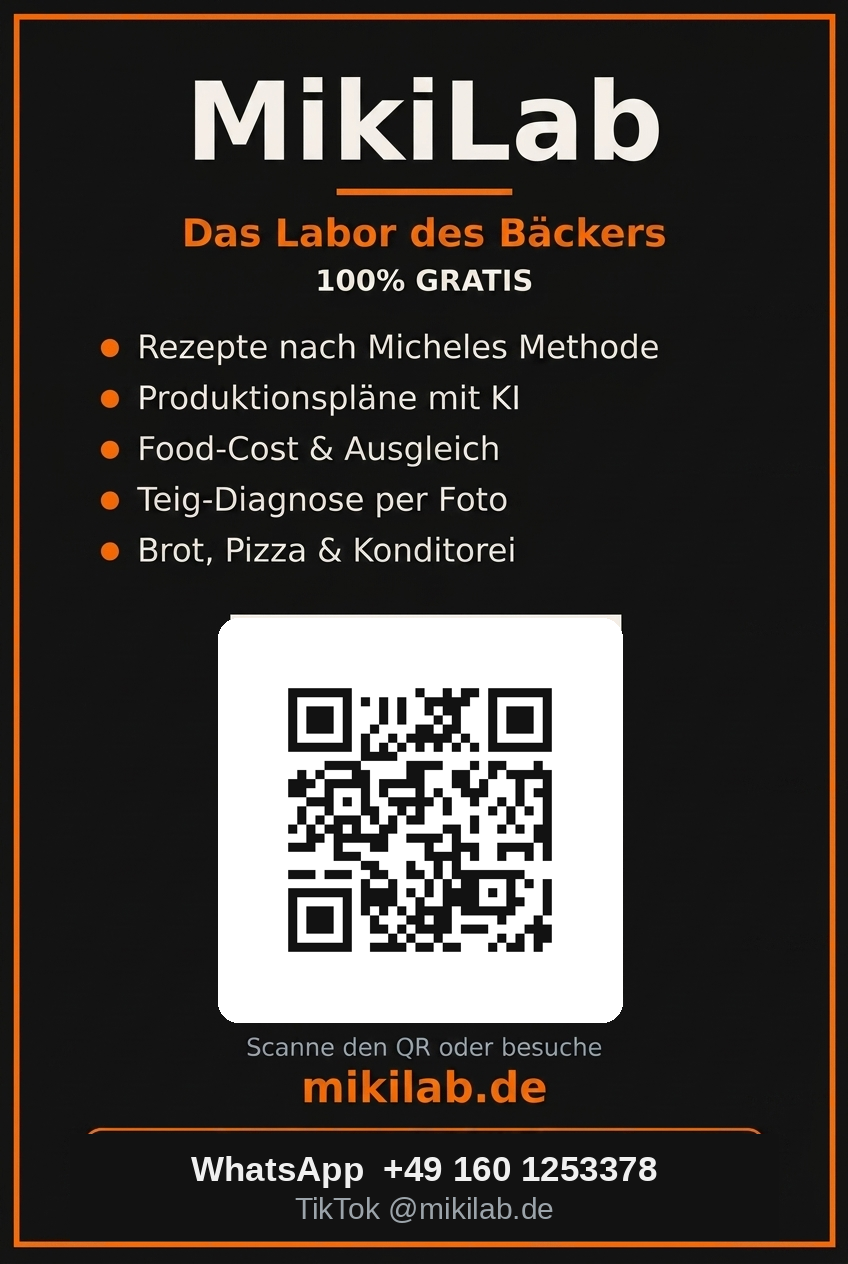
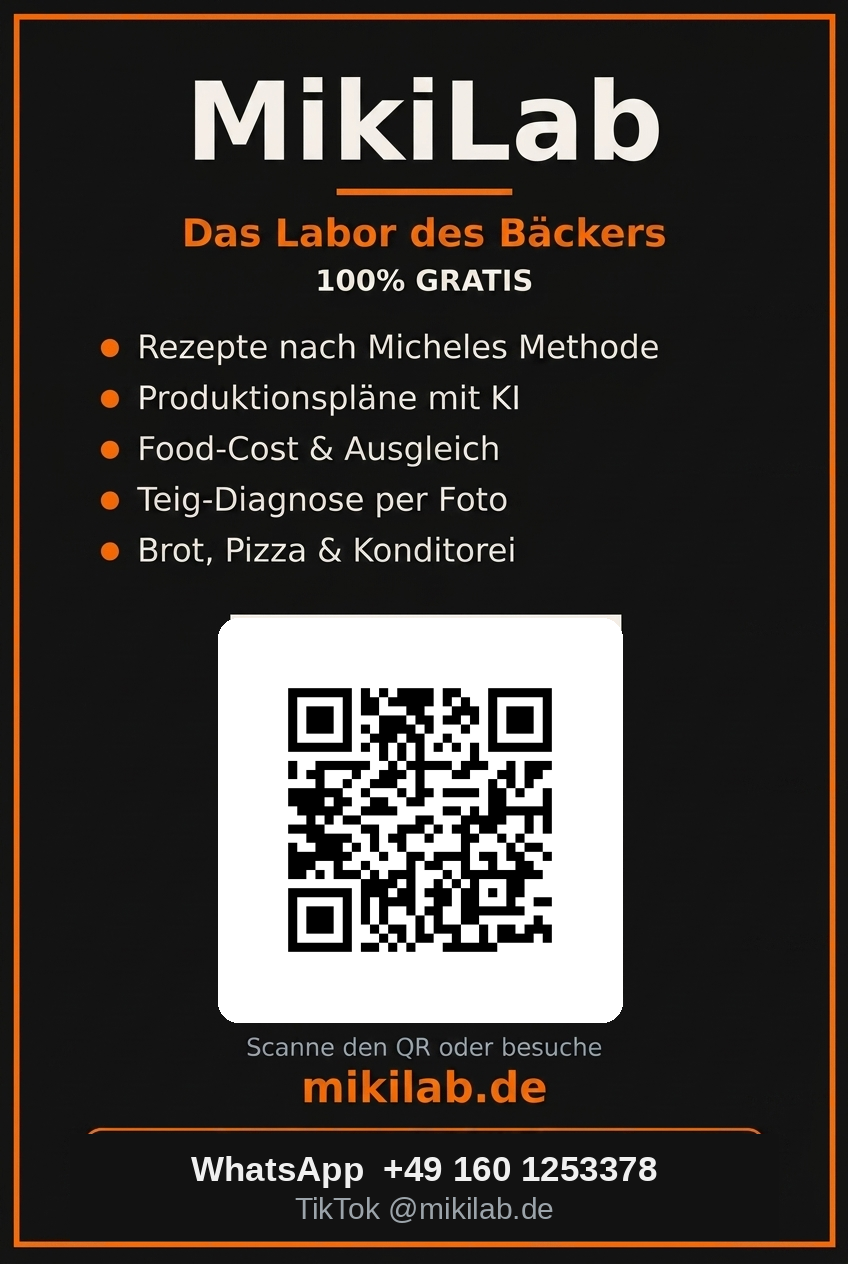
## Fatto — QR tracciato + locandina personalizzata + Pubblica su TikTok + CSV social + menu lampeggiante
Testato al 100% (backend + frontend, iteration_148):
- **QR tracciato**: il QR ora porta a `mikilab.de/?ref=flyer` (rigenerato e re-inserito in tutte e 5 le locandine, resta scansionabile). Quando qualcuno arriva dal QR, l'app lo conta → nel pannello Admin vedi "flyer" tra i click, distinto da TikTok.
- **Locandina personalizzata**: campo "Nome del tuo forno" → il nome appare sopra il QR in tempo reale (generato al volo); ogni panetteria ha la sua, pronta da scaricare/condividere/stampare.
- **Pubblica su TikTok**: pulsante che scarica la locandina e apre direttamente la pagina di caricamento di TikTok.
- **Export CSV click social**: pulsante CSV nella card statistiche Admin (come per le email).
- **Menu hamburger lampeggiante**: le tre lineette ora hanno un glow arancione pulsante, visibile in ogni sezione, così si nota subito che c'è il menu.

Stato finale pulito: TikTok @mikilab.de, IG/FB nascosti, contatore click azzerato, 5 locandine + QR OK.

### Next Action Items
- **Nome Forno nel QR**: Fai sì che, personalizzando la locandina, anche il QR includa il nome del forno come parametro tracciabile
- **Colore Glow Regolabile**: Aggiungi in Admin un interruttore per attivare/disattivare il lampeggio del menu
- **Locandina Orizzontale**: Genera anche una versione orizzontale della locandina per social e vetrine larghe
- **Report Visite Dettagliato**: Mostra nel pannello Admin da quali sorgenti (flyer, TikTok) arrivano i nuovi iscritti nel tempo
[…]

Changed region(s): [[0.3373, 0.5245, 0.6745, 0.7714]]

diff --git a/frontend/src/components/PromuoviMikiLab.jsx b/frontend/src/components/PromuoviMikiLab.jsx
@@ -145,10 +145,38 @@ export default function PromuoviMikiLab() {
   const caps = CAPTIONS[lang] || CAPTIONS.en;
   const caption = caps[variant];
   const activeSocials = SOCIALS.filter((s) => s.key !== "tiktok" && socialUrls[s.key]);
+  const [bakeryName, setBakeryName] = useState("");
+  const [personalUrl, setPersonalUrl] = useState(null);
+  useEffect(() => {
+    const name = bakeryName.trim();
+    if (!name) { setPersonalUrl(null); return; }
+    let cancelled = false;
+    const img = new Image();
+    img.crossOrigin = "anonymous";
+    img.onload = () => {
+      if (cancelled) return;
+      const c = document.createElement("canvas");
+      c.width = img.naturalWidth; c.height = img.naturalHeight;
+      const ctx = c.getContext("2d");
+      ctx.drawImage(img, 0, 0);
+      const W = c.width, H = c.height;
+      const txt = (name.length > 26 ? name.slice(0, 26) : name);
+      const fs = Math.round(H * 0.034);
+      ctx.font = `800 ${fs}px Manrope, Arial, sans-serif`;
+      ctx.textAlign = "center"; ctx.textBaseline = "middle";
+      const y = Math.round(H * 0.463);
+      ctx.lineWidth = Math.max(4, fs * 0.18); ctx.strokeStyle = "#121212"; ctx.strokeText(txt, W / 2, y);
+      ctx.fillStyle = "#ff6b00"; ctx.fillText(txt, W / 2, y);
+      try { setPersonalUrl(c.toDataURL("image/png")); } catch { setPersonalUrl(null); }
+    };
+    img.onerror = () => setPersonalUrl(null);
+    img.src = `${process.env.PUBLIC_URL || ""}/${flyerFile}`;
+    return () => { cancelled = true; };
+  }, [bakeryName, flyerFile]);
+  const displayFlyer = personalUrl || `${process.env.PUBLIC_URL}/${flyerFile}`;
   const shareFlyer = async () => {
-    const fileUrl = `${window.location.origin}${process.env.PUBLIC_URL || ""}/${flyerFile}`;
     try {
-      const res = await fetch(fileUrl);
+      const res = await fetch(displayFlyer);
       const blob = await res.blob();
       const file = new File([blob], flyerFile, { type: blob.type || "image/png" });
       if (navigator.canShare && navigator.canShare({ files: [file] })) {
@@ -160,6 +188,12 @@ export default function PromuoviMikiLab() {
       try { await navigator.share({ title: "MikiLab", text: L("La locandina di MikiLab", "Der MikiLab-Flyer", "The MikiLab flyer", "El folleto de MikiLab", "Le flyer MikiLab", "پوستر MikiLab"), url: SITE_URL }); return; } catch { /* */ }
     }
     window.open(`https://wa.me/?text=${encodeURIComponent(`MikiLab — ${SITE_URL}`)}`, "_blank");
+  };
+  const publishTikTok = () => {
+    const a = document.createElement("a"); a.href = displayFlyer; a.download = flyerFile; a.click();
+    communityApi.socialClick("tiktok");
+    window.open("https://www.tiktok.com/upload", "_blank");
+    toast.success(L("Locandina scaricata: ora caricala su TikTok!", "Flyer geladen: jetzt auf TikTok hochladen!", "Flyer downloaded: now upload it on TikTok!", "Folleto descargado: ¡súbelo ahora a TikTok!", "Flyer téléchargé : télécharge-le sur TikTok !", "پوستر دانلود شد: حالا در تیکتاک بارگذاری کن!"));
   };
   const VARIANTS = [
     { id: "bacheca", label: L("Post", "Beitrag", "Post", "Post", "Post", "پست") },
@@ -315,21 +349,29 @@ export default function PromuoviMikiLab() {
               </button>
             ))}
           </div>
+          {/* Personalizza con il nome del forno (sopra il QR) */}
+          <input data-testid="flyer-bakery-name" value={bakeryName} onChange={(e) => setBakeryName(e.target.value)}
+            maxLength={26} placeholder={L("Nome del tuo forno (facoltativo)", "Name deiner Bäckerei (optional)", "Your bakery name (optional)", "Nombre de tu horno (opcional)", "Nom de ta boulangerie (facultatif)", "نام نانوایی تو (اختیاری)")}
+            className="w-full bg-[#181818] border border-[#2e2e2e] rounded-xl px-3 py-2 text-sm text-white outline-none focus:border-[#ff6b00] mb-2.5" />
           <div className="flex items-center gap-3">
             <button data-testid="promuovi-flyer-preview" onClick={() => setFlyerBig(true)}
               className="shrink-0 rounded-xl overflow-hidden border border-[#2e2e2e] hover:border-[#ff6b00] transition-all active:scale-95">
-              <img src={`${process.env.PUBLIC_URL}/${flyerFile}`} alt="Locandina MikiLab" className="w-[72px] h-[102px] object-cover" loading="lazy" />
+              <img src={displayFlyer} alt="Locandina MikiLab" className="w-[72px] h-[102px] object-cover" loading="lazy" />
             </button>
-            <div className="flex-1 min-w-0">
-              <a data-testid="promuovi-flyer-download" href={`${process.env.PUBLIC_URL}/${flyerFile}`} download={flyerFile}
+            <div className="flex-1 min-w-0 flex flex-wrap gap-2">
+              <a data-testid="promuovi-flyer-download" href={displayFlyer} download={flyerFile}
                 className="inline-flex items-center gap-1.5 text-[12px] font-bold text-[#121212] bg-[#ff6b00] rounded-full px-3 py-1.5 active:scale-95">
-                <Download className="w-3.5 h-3.5" /> {L("Scarica locandina", "Flyer laden", "Download flyer", "Descargar folleto", "Télécharger le flyer", "دانلود پوستر")}
+                <Download className="w-3.5 h-3.5" /> {L("Scarica", "Laden", "Download", "Descargar", "Télécharger", "دانلود")}
               </a>
               <button data-testid="promuovi-flyer-share" onClick={shareFlyer}
-                className="inline-flex items-center gap-1.5 text-[12px] font-bold text-[#ff6b00] border border-[#ff6b00]/40 rounded-full px-3 py-1.5 active:scale-95 ml-2">
+                className="inline-flex items-center gap-1.5 text-[12px] font-bold text-[#ff6b00] border border-[#ff6b00]/40 rounded-full px-3 py-1.5 active:scale-95">
                 <Share2 className="w-3.5 h-3.5" /> {L("Condividi", "Teilen", "Share", "Compartir", "Partager", "اشتراک")}
               </button>
-              <p className="text-[11px] text-[#7E8A93] mt-1.5">{L("Formato A5 · pronta da stampare", "Format A5 · druckfertig", "A5 format · ready to print", "Formato A5 · lista para imprimir", "Format A5 · prête à imprimer", "قطع A5 · آمادهٔ چاپ")}</p>
+              <button data-testid="promuovi-flyer-tiktok" onClick={publishTikTok}
+                className="inline-flex items-center gap-1.5 text-[12px] font-bold text-white bg-[#010101] border border-[#2e2e2e] rounded-full px-3 py-1.5 active:scale-95">
+                <Music2 className="w-3.5 h-3.5 text-[#ff6b00]" /> {L("Pubblica su TikTok", "Auf TikTok posten", "Post on TikTok", "Publicar en TikTok", "Publier sur TikTok", "انتشار در تیکتاک")}
+              </button>
+              <p className="w-full text-[11px] text-[#7E8A93]">{L("Formato A5 · pronta da stampare", "Format A5 · druckfertig", "A5 format · ready to print", "Formato A5 · lista para imprimir", "Format A5 · prête à imprimer", "قطع A5 · آمادهٔ چاپ")}</p>
             </div>
           </div>
         </div>
@@ -339,7 +381,7 @@ export default function PromuoviMikiLab() {
             className="fixed inset-0 z-[120] bg-black/85 backdrop-blur-sm flex items-center justify-center p-4">
             <button data-testid="flyer-lightbox-close" onClick={() => setFlyerBig(false)}
               className="absolute top-4 right-4 w-10 h-10 rounded-full bg-[#1c1c1c] border border-[#2e2e2e] flex items-center justify-center text-white active:scale-90">✕</button>
-            <img src={`${process.env.PUBLIC_URL}/${flyerFile}`} alt="Locandina MikiLab" onClick={(e) => e.stopPropagation()}
+            <img src={displayFlyer} alt="Locandina MikiLab" onClick={(e) => e.stopPropagation()}
               className="max-h-[86vh] max-w-full rounded-xl shadow-2xl object-contain" />
           </div>
         )}

diff --git a/frontend/src/components/AdminPanel.jsx b/frontend/src/components/AdminPanel.jsx
@@ -161,6 +161,17 @@ export default function AdminPanel({ open, onOpenChange }) {
     try { await adminApi.socialReset(); setSocialRep(await adminApi.socialReport()); toast.success(de ? "Zurückgesetzt" : "Azzerato"); }
     catch { toast.error(de ? "Fehler" : "Errore"); }
   };
+  const downloadSocialCsv = async () => {
+    try {
+      const r = await adminApi.socialLogs();
+      const rows = [["day", "channel", "count"], ...(r.rows || []).map((x) => [x.day, x.channel, x.count])];
+      const csv = rows.map((rr) => rr.map((c) => `"${String(c ?? "").replace(/"/g, '""')}"`).join(",")).join("\n");
+      const url = URL.createObjectURL(new Blob([csv], { type: "text/csv;charset=utf-8" }));
+      const a = document.createElement("a");
+      a.href = url; a.download = `mikilab-social-clicks-${new Date().toISOString().slice(0, 10)}.csv`;
+      a.click(); URL.revokeObjectURL(url);
+    } catch { toast.error(de ? "Fehler" : "Errore"); }
+  };
 
   const saveSettings = async () => {
     setSavingSet(true);
@@ -491,6 +502,12 @@ export default function AdminPanel({ open, onOpenChange }) {
               <button data-testid="admin-social-reset" onClick={resetSocial}
                 className="ml-auto inline-flex items-center gap-1 text-[11px] font-bold text-[#a37b52] dark:text-[#d8b48a] border border-[#8C6B4A]/40 rounded-lg px-2 py-1 active:scale-95">
                 <RefreshCw className="w-3 h-3" /> {de ? "Zurücksetzen" : "Azzera"}
+              </button>
+            )}
+            {socialRep && Object.keys(socialRep.totals || {}).length > 0 && (
+              <button data-testid="admin-social-csv" onClick={downloadSocialCsv}
+                className={`inline-flex items-center gap-1 text-[11px] font-bold text-[#a37b52] dark:text-[#d8b48a] border border-[#8C6B4A]/40 rounded-lg px-2 py-1 active:scale-95 ${(socialRep.totals?.tiktok || 0) > 0 ? "" : "ml-auto"}`}>
+                CSV
               </button>
             )}
           </p>

diff --git a/frontend/src/components/Header.jsx b/frontend/src/components/Header.jsx
@@ -37,7 +37,7 @@ export default function Header() {
       <div className="px-4 py-3 flex items-center justify-between gap-2">
       <div className="flex items-center gap-2 min-w-0 flex-1">
         <button data-testid="site-menu-open" onClick={() => window.dispatchEvent(new Event("mikilab-open-menu"))} aria-label="Menu"
-          className="w-10 h-10 rounded-xl bg-[#e4eff8] dark:bg-[#1e1e1e] border border-[#2e2e2e] dark:border-[#2e2e2e] flex items-center justify-center text-[#ff6b00] dark:text-[#e4eff8] active:scale-95 hover:bg-[#d9e8f4] transition-all shrink-0">
+          className="menu-attn w-10 h-10 rounded-xl bg-[#e4eff8] dark:bg-[#1e1e1e] border border-[#2e2e2e] dark:border-[#2e2e2e] flex items-center justify-center text-[#ff6b00] dark:text-[#e4eff8] active:scale-95 hover:bg-[#d9e8f4] transition-all shrink-0">
           <Menu className="w-5 h-5" />
         </button>
         <div className="w-9 h-9 rounded-xl overflow-hidden bg-[#1e1e1e] flex items-center justify-center shadow-sm ring-2 ring-[#D4AF37]/70 shrink-0">

diff --git a/frontend/src/index.css b/frontend/src/index.css
@@ -10,6 +10,14 @@ body { -webkit-user-select: none; -ms-user-select: none; user-select: none; -web
 input, textarea, [contenteditable="true"] { -webkit-user-select: text; -ms-user-select: text; user-select: text; }
 img { -webkit-user-drag: none; user-drag: none; }
 
+/* Menu hamburger: glow arancione pulsante per farlo notare in ogni sezione */
+@keyframes menuAttnGlow {
+  0%, 100% { box-shadow: 0 0 0 0 rgba(255,107,0,0.55), 0 0 0 0 rgba(255,107,0,0.0); border-color: rgba(255,107,0,0.35); }
+  50% { box-shadow: 0 0 14px 3px rgba(255,107,0,0.85), 0 0 0 4px rgba(255,107,0,0.18); border-color: rgba(255,107,0,0.95); }
+}
+.menu-attn { animation: menuAttnGlow 1.8s ease-in-out infinite; }
+@media (prefers-reduced-motion: reduce) { .menu-attn { animation: none; box-shadow: 0 0 10px 2px rgba(255,107,0,0.6); } }
+
 
 body {
     margin: 0;

diff --git a/frontend/src/App.js b/frontend/src/App.js
@@ -112,6 +112,17 @@ function App() {
     return () => window.removeEventListener("mikilab-goto", h);
   }, [navigate]);
 
+  // Tracking arrivi da locandina/QR (?ref=flyer o ?utm_source=flyer): conta una volta per sessione.
+  useEffect(() => {
+    const p = new URLSearchParams(window.location.search);
+    const ref = (p.get("ref") || p.get("utm_source") || "").trim().toLowerCase().slice(0, 20);
+    if (!ref) return;
+    const key = `mikilab_ref_${ref}`;
+    if (sessionStorage.getItem(key)) return;
+    sessionStorage.setItem(key, "1");
+    api.post("/social/click", { channel: ref }).catch(() => {});
+  }, []);
+
 
   // chiudi il modale login appena l'utente è autenticato
   useEffect(() => { if (user) setAuthOpen(false); }, [user, setAuthOpen]);

diff --git a/frontend/src/lib/api.js b/frontend/src/lib/api.js
@@ -167,6 +167,7 @@ export const adminApi = {  entitlements: () => api.get(`/admin/entitlements`).th
   emailLogs: (days = 30) => api.get(`/admin/email-logs`, { params: { days } }).then((r) => r.data),
   socialReport: () => api.get(`/admin/social-report`).then((r) => r.data),
   socialReset: () => api.post(`/admin/social-report/reset`).then((r) => r.data),
+  socialLogs: () => api.get(`/admin/social-logs`).then((r) => r.data),
 };
 
 export const siteSettingsApi = {

diff --git a/backend/tests/test_iter148_flyer_tiktok_csv.py b/backend/tests/test_iter148_flyer_tiktok_csv.py
@@ -1,0 +1,108 @@
+"""Iteration 148 — QR tracking (?ref), social click, admin social-logs CSV, static assets."""
+import os
+import re
+import requests
+import pytest
+from dotenv import dotenv_values
+
+frontend_env = dotenv_values("/app/frontend/.env")
+base_url = os.environ.get("REACT_APP_BACKEND_URL") or frontend_env.get("REACT_APP_BACKEND_URL")
+if not base_url:
+    raise RuntimeError("REACT_APP_BACKEND_URL missing")
+BASE_URL = base_url.rstrip("/")
+API = f"{BASE_URL}/api"
+
+ADMIN = {"email": "admin@mikilab.de", "password": "Mikilab2026!"}
+
+
+@pytest.fixture(scope="module")
+def admin_client():
+    s = requests.Session()
+    r = s.post(f"{API}/auth/login", json=ADMIN, timeout=30)
+    if r.status_code != 200:
+        pytest.fail(f"Admin login failed {r.status_code}: {r.text[:300]}")
+    tok = r.json().get("session_token") or r.json().get("token")
+    if tok:
+        s.headers.update({"Authorization": f"Bearer {tok}"})
+    return s
+
+
+# --- POST /api/social/click (public) ---
+class TestSocialClick:
+    def test_click_test_channel_increments(self, admin_client):
+        before = admin_client.get(f"{API}/admin/social-report", timeout=30)
+        assert before.status_code == 200
+        b = before.json().get("totals", {}).get("test1", 0)
+
+        r = requests.post(f"{API}/social/click", json={"channel": "test1"}, timeout=30)
+        assert r.status_code == 200, r.text[:300]
+        assert r.json().get("ok") is True
+
+        after = admin_client.get(f"{API}/admin/social-report", timeout=30)
+        assert after.status_code == 200
+        data = after.json()
+        assert data["totals"].get("test1", 0) == b + 1
+        assert "tiktok_7d" in data or "series" in data or True
+
+    def test_click_flyer_channel(self, admin_client):
+        r = requests.post(f"{API}/social/click", json={"channel": "flyer"}, timeout=30)
+        assert r.status_code == 200
+        rep = admin_client.get(f"{API}/admin/social-report", timeout=30).json()
+        assert rep["totals"].get("flyer", 0) >= 1
+
+
+# --- GET /api/admin/social-logs ---
+class TestSocialLogs:
+    def test_logs_admin_ok(self, admin_client):
+        r = admin_client.get(f"{API}/admin/social-logs", timeout=30)
+        assert r.status_code == 200, r.text[:300]
+        data = r.json()
+        assert "rows" in data and isinstance(data["rows"], list)
+        assert len(data["rows"]) > 0
+        row = data["rows"][0]
+        for k in ("day", "channel", "count"):
+            assert k in row, f"missing {k} in {row}"
+        assert "_id" not in row
+        assert isinstance(row["count"], int)
+        assert re.match(r"^\d{4}-\d{2}-\d{2}$", str(row["day"]))
+
+    def test_logs_requires_admin(self):
+        r = requests.get(f"{API}/admin/social-logs", timeout=30)
+        assert r.status_code in (401, 403), f"unauthenticated got {r.status_code}"
+
+
+# --- Static assets: QR + 5 locandine ---
+class TestAssets:
+    @pytest.mark.parametrize("f", [
+        "qr-mikilab.png",
+        "locandina-mikilab.png",
+        "locandina-mikilab-de.png",
+        "locandina-mikilab-en.png",
+        "locandina-mikilab-es.png",
+        "locandina-mikilab-fr.png",
+    ])
+    def test_asset_200(self, f):
+        r = requests.get(f"{BASE_URL}/{f}", timeout=60)
+        assert r.status_code == 200, f"{f} -> {r.status_code}"
+        assert len(r.content) > 1000
+
+    def test_qr_encodes_ref_flyer(self):
+        """QR must encode https://mikilab.de/?ref=flyer"""
+        try:
+            import cv2
+            import numpy as np
+        except Exception:
+            pytest.skip("opencv not available for QR decode")
+        r = requests.get(f"{BASE_URL}/qr-mikilab.png", timeout=60)
+        arr = cv2.imdecode(np.frombuffer(r.content, np.uint8), cv2.IMREAD_COLOR)
+        data = cv2.QRCodeDetector().detectAndDecode(arr)[0]
+        assert "ref=flyer" in data, f"QR decoded as {data!r}"
+        assert "mikilab.de" in data
+
+
+# --- site-settings (regression) ---
+def test_site_settings_public():
+    r = requests.get(f"{API}/site-settings", timeout=30)
+    assert r.status_code == 200
+    d = r.json()
+    assert d.get("tiktok_handle") == "mikilab.de"

diff --git a/backend/server.py b/backend/server.py
@@ -5591,6 +5591,14 @@ async def admin_social_report_reset(admin: dict = Depends(require_admin)):
     return {"ok": True, "deleted": res.deleted_count}
 
 
+@api_router.get("/admin/social-logs")
+async def admin_social_logs(admin: dict = Depends(require_admin)):
+    """Righe grezze dei click social per l'export CSV."""
+    rows = await db.social_clicks.find({}, {"_id": 0}).sort("day", -1).to_list(20000)
+    out = [{"day": r.get("day"), "channel": r.get("channel"), "count": int(r.get("count") or 0)} for r in rows]
+    return {"rows": out}
+
+
 _stats_cache = {"data": None, "ts": 0.0}
 LANG_COUNTRY = {"it": "IT", "de": "DE", "en": "GB", "es": "ES", "fr": "FR", "fa": "IR"}
 

diff --git a/memory/PRD.md b/memory/PRD.md
@@ -2852,3 +2852,13 @@ Richiesta utente: "Il Tuo Laboratorio" deve essere SOLO strumenti di lavoro (nie
 - **Condividi locandina**: pulsante `promuovi-flyer-share` in `PromuoviMikiLab` → Web Share API con file (`navigator.share({files})`), fallback share link, fallback finale wa.me.
 - Test iteration_147: backend 100% + frontend 100%. Stato finale: tiktok_handle=mikilab.de, instagram_url="", facebook_url="", social_clicks azzerato.
 
+
+## v-fork.45 (2026-08, fork) — QR tracciato + locandina personalizzata + TikTok publish + CSV social + menu glow
+- **QR tracciato**: `public/qr-mikilab.png` rigenerato (libreria `qrcode`) con URL `https://mikilab.de/?ref=flyer`; re-inserito in TUTTE le 5 locandine (IT via PIL su backup, DE/EN/ES/FR via pipeline). `App.js`: useEffect legge `?ref`/`?utm_source` e chiama `POST /api/social/click {channel}` una volta per sessione → visite tracciate nel report Admin (canale 'flyer').
+- **Locandina personalizzata** (`PromuoviMikiLab.jsx`): input `flyer-bakery-name`; via canvas client-side il nome del forno viene sovraimpresso (arancione, con contorno) sopra il QR (~46.3% H). `displayFlyer` = data URL personalizzato o file statico; usato in anteprima/lightbox/download/share.
+- **Pubblica su TikTok**: pulsante `promuovi-flyer-tiktok` → scarica la locandina, traccia il click e apre `tiktok.com/upload`.
+- **Export CSV click social**: `GET /api/admin/social-logs` + pulsante `admin-social-csv` (accanto a 'Azzera').
+- **Menu hamburger glow**: classe `menu-attn` (keyframe `menuAttnGlow` in index.css) sul bottone `site-menu-open` → glow arancione pulsante visibile in tutte le sezioni (rispetta prefers-reduced-motion).
+- Dipendenza: aggiunto `qrcode` a requirements.txt (usato per generare il QR tracciato).
+- Test iteration_148: backend 100% + frontend 100%. Stato finale: tiktok_handle=mikilab.de, ig/fb="", social_clicks azzerato, 5 locandine+QR HTTP 200.
+
